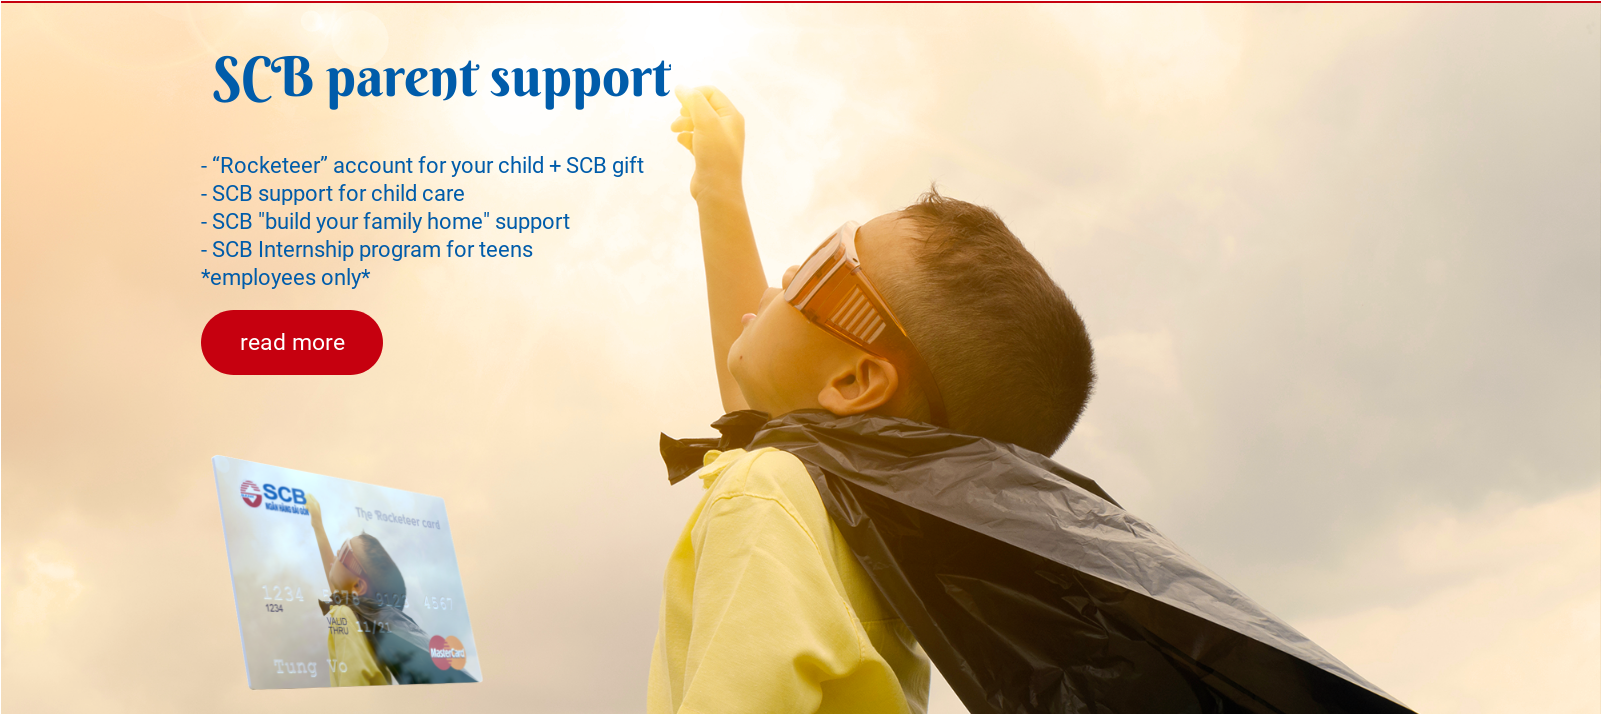
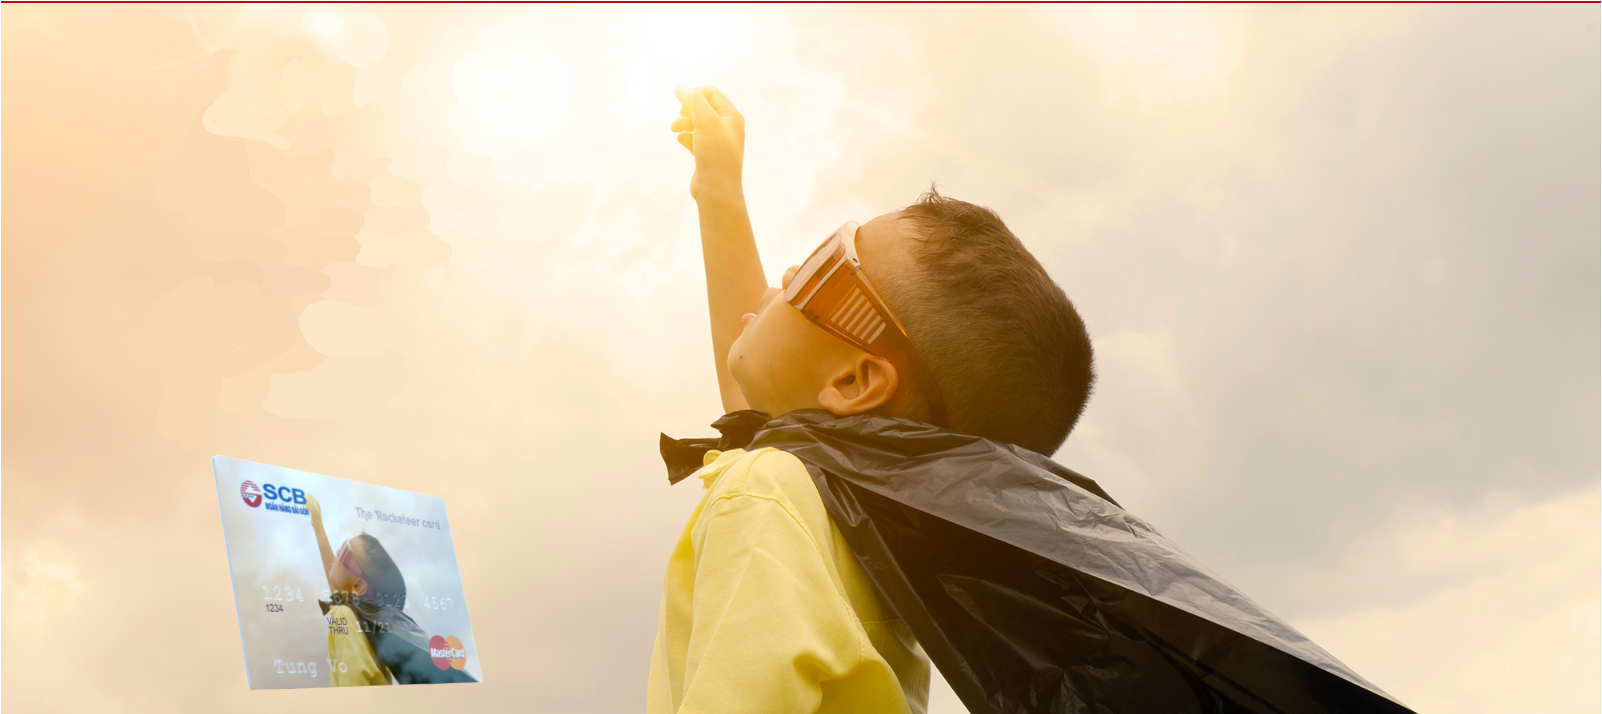
done

Changed region(s): [[0.1248, 0.2157, 0.4057, 0.4006], [0.1248, 0.0616, 0.437, 0.1541], [0.1248, 0.4314, 0.2497, 0.5238]]

diff --git a/index.html b/index.html
@@ -48,10 +48,24 @@
                     </ul>
                 </div>
             </div>
-            <div class="s-carousel">
-                <div class="s-carousel-content"></div>
+            <div>
+                <div class="s-carousel">
+                    <img src="./img/carousel.png" alt="">
+                    <div class="s-carousel-title">
+                        SCB parent support
+                    </div>
+                    <div class="s-carousel-content">
+                        <p>- "Rocketeer" account for your child + SCB gift</p>
+                        <p>- SCB support for child care</p>
+                        <p>- SCB support for child care</p>
+                        <p>- SCB support for child care</p>
+                        <p>- SCB support for child care</p>
+                        <p>- SCB support for child care</p>
+                    </div>
+                    <a href="./index.html" class="s-carousel-more">read more</a>
+                </div>
                 <div class="s-bg-f6">
-                    <div class="s-row nopadding s-bg-f6">
+                    <div class="s-row nopadding">
                         <div class="s-summary">
                             <i class="s-icon">
                                 <div class="s-circle s-bg-green"></div>
@@ -279,10 +293,10 @@
                 </div>
             </div>
             <div class="s-footer">
-                <div class="s-footer-nav">
+                <div class="s-nav s-footer-nav">
                     <ul>
-                        <li class="s-text-red">
-                            <a href="./index.html">About SCB</a>
+                        <li>
+                            <a class="s-text-red" href="./index.html">About SCB</a>
                         </li>
                         <li class="s-text-red">/</li>
                         <li>
@@ -306,10 +320,78 @@
                         </li>
                     </ul>
                 </div>
-                <div class="s-links"></div>
-                <div class="s-address"></div>
-                <div class="s-copyright">2017 COPYRIGHT &copy; SAI GON. ALL RIGHTS RESERVED
-                    <div class="s-terms-of-use"></div>
+                <div class="s-links">
+                    <div class="s-row">
+                        <div class="s-row">
+                            <div class="s-link-item">
+                                <p class="s-text-bold">Personal</p>
+                                <p><a href="./index.html">I want</a></p>
+                                <p><a href="./index.html">I want</a></p>
+                                <p><a href="./index.html">I want</a></p>
+                                <p><a href="./index.html">I want</a></p>
+                                <p><a href="./index.html">I want</a></p>
+                                <p><a href="./index.html">I want</a></p>
+                                <p><a href="./index.html">I want</a></p>
+                                <p><a href="./index.html">I want</a></p>
+                                <p><a href="./index.html">I want</a></p>
+                                <p><a href="./index.html">I want</a></p>
+                            </div>
+                            <div class="s-link-item">
+                                <p class="s-text-bold">Coporate</p>
+                                <p><a href="./index.html">I want</a></p>
+                                <p><a href="./index.html">I want</a></p>
+                                <p><a href="./index.html">I want</a></p>
+                                <p><a href="./index.html">I want</a></p>
+                                <p><a href="./index.html">I want</a></p>
+                                <p><a href="./index.html">I want</a></p>
+                                <p><a href="./index.html">I want</a></p>
+                                <p><a href="./index.html">I want</a></p>
+                                <p><a href="./index.html">I want</a></p>
+                                <p><a href="./index.html">I want</a></p>
+                            </div>
+                            <div class="s-link-item">
+                                <p class="s-text-bold">Card & Ebanking</p>
+                                <p><a href="./index.html">I want</a></p>
+                                <p><a href="./index.html">I want</a></p>
+                                <p><a href="./index.html">I want</a></p>
+                                <p><a href="./index.html">I want</a></p>
+                                <p class="s-text-bold"><a href="./index.html">Promotion Program</a></p>
+                                <p><a href="./index.html">I want</a></p>
+                                <p><a href="./index.html">I want</a></p>
+                                <p><a href="./index.html">I want</a></p>
+                                <p><a href="./index.html">I want</a></p>
+                                <p><a href="./index.html">I want</a></p>
+                            </div>
+                            <div class="s-link-item">
+                                <p class="s-text-bold">Hotline 24/7</p>
+                                <p><a href="./index.html">I want</a></p>
+                                <p><a href="./index.html">I want</a></p>
+                                <p><a href="./index.html">I want</a></p>
+                                <p><a href="./index.html">I want</a></p>
+                                <p><a href="./index.html">I want</a></p>
+                                <p class="s-text-bold"><a href="./index.html">Links</a></p>
+                                <p><a href="./index.html">I want</a></p>
+                                <p><a href="./index.html">I want</a></p>
+                                <p><a href="./index.html">I want</a></p>
+                                <p><a href="./index.html">I want</a></p>
+                            </div>
+                        </div>
+                    </div>                    
+                </div>
+                <div class="s-address">
+                    <p class="s-text-bold">SAI GON JOINT STOCK COMMERCIAL BANK</p>
+                    <p>Head office: 927 Tran Hung Dao Street, Ward 1, District 5, Ho Chi Minh City, Vietnam - Phone: (028) 39230 666 - Fax: (028) 39225 888</p>
+                    <p>SWIFT Code: SACLVNVX</p>
+                </div>                
+                <div class="s-copyright">
+                    <div class="s-row">
+                        2017 COPYRIGHT &copy; SAI GON. ALL RIGHTS RESERVED
+                        <div class="s-terms-of-use">
+                            <a href="./index.html">Terms of use</a>
+                            /
+                            <a href="./index.html">Customer security</a>
+                        </div>
+                    </div>                   
                 </div>
             </div>
         </div>

diff --git a/css/style.css b/css/style.css
@@ -37,9 +37,36 @@
     height: 85px;
     float: left;
 }
-.s-carousel-content{
-    height: 715px;
-    background: url("../img/carousel.PNG") no-repeat;
+.s-carousel{
+    height: 715px;    
+}
+.s-carousel .s-carousel-title, 
+.s-carousel .s-carousel-content,
+.s-carousel .s-carousel-more{
+    position: relative;
+    top: -665px;
+    left: 200px;
+    font-size: 20px;
+    color: #0066b1;
+}
+.s-carousel .s-carousel-title{
+    font-family: Georgia, serif;
+    font-size: 46px;
+    font-weight: bold;
+    margin-bottom: 30px;
+}
+.s-carousel .s-carousel-content p{
+    margin: 0;
+    line-height: 30px;
+}
+.s-carousel .s-carousel-more{
+    text-decoration: none;
+    font-size: 23px;
+    background-color: #c6000f;
+    color: white;
+    padding: 20px 40px;
+    border-radius: 35px;
+    top: -630px;
 }
 .s-nav ul{
     list-style-type: none;
@@ -338,4 +365,61 @@
     font-size: 20px;
     padding: 10px;
     font-weight: bold;
+}
+.s-footer-nav{
+    text-transform: uppercase;
+    width: 100%;
+    text-align: center;
+    background-color: #ebeef1;
+    border-top: 1px dotted black;
+}
+.s-footer-nav ul li{
+    font-weight: bold;
+}
+.s-footer-nav ul li a{
+    font-size: 14px;
+    font-weight: bold;
+}
+.s-footer-nav ul .s-text-red{
+    color: #d62f57;
+}
+.s-links{
+    background-color: #d7dde4;
+    border-bottom: 1px dotted black;
+    font-size: 15px;
+    text-align: center;
+}
+.s-links .s-link-item{
+    display: inline-block;
+    margin-top: 20px;
+    width: 200px;
+    margin-left: 20px;
+    text-align: left;
+}
+.s-links .s-link-item p{
+    margin: 10px 0;
+}
+.s-links .s-link-item p a{
+    text-decoration: none;
+    color: inherit;
+}
+.s-address{
+    text-align: center;
+    background-color: #d7dde4;
+    padding: 10px 0;
+}
+.s-copyright{
+    background-color: #0e5ca5;
+    color: white;
+    padding: 20px 0;
+    text-transform: uppercase;
+    font-size: 14px;
+}
+.s-terms-of-use{
+    float: right;
+}
+.s-terms-of-use a{
+    text-decoration: none;
+    color: inherit;
+    margin: 0 10px;
 }
